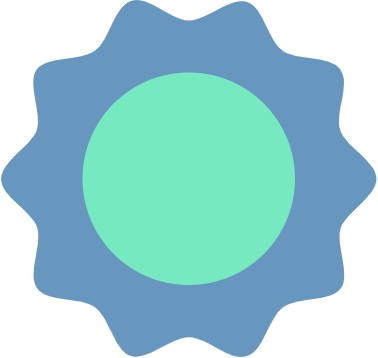
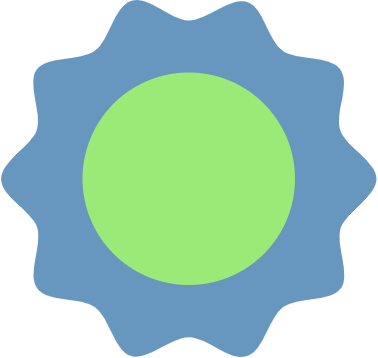
feat(emojis): register HypeSquad (balance/bravery/brilliance), minecraft 3D block, reload, microfone, and updated verde/voltar

Changed region(s): [[0.2037, 0.1844, 0.7857, 0.7989]]

diff --git a/src/config/emojis.js b/src/config/emojis.js
@@ -47,15 +47,21 @@ const custom = {
     bughunter: '<:bughunter:1546598272096010370>',
     nitro: '<:nitro:1546595531298705568>',
     booster: '<:booster:1546594393467916288>',
+    balance: '<:balance:1546605627277836298>',
+    hypesquad_balance: '<:balance:1546605627277836298>',
+    bravery: '<:bravery:1546606959849898194>',
+    hypesquad_bravery: '<:bravery:1546606959849898194>',
+    brilliance: '<:brilliance:1546607104792596500>',
+    hypesquad_brilliance: '<:brilliance:1546607104792596500>',
 
     // Users, Presence & Communication
-    verde: '<:verde:1546599486434840597>',
+    verde: '<:verde:1546604047522594916>',
     amarelo: '<:amarelo:1546599484920959016>',
     vermelho: '<:vermelho:1546599483608141936>',
-    status_online: '<:verde:1546599486434840597>',
+    status_online: '<:verde:1546604047522594916>',
     status_idle: '<:amarelo:1546599484920959016>',
     status_dnd: '<:vermelho:1546599483608141936>',
-    ping_otimo: '<:verde:1546599486434840597>',
+    ping_otimo: '<:verde:1546604047522594916>',
     ping_medio: '<:amarelo:1546599484920959016>',
     ping_ruim: '<:vermelho:1546599483608141936>',
     pessoa: '<:pessoa:1397391720139984897>',
@@ -75,6 +81,8 @@ const custom = {
     fone: '<:fone:1397394241788969130>',
     fonemutado: '<:fonemutado:1397394185706803302>',
     micmutado: '<:micmutado:1397394364396998756>',
+    microfone: '<:microfone:1546604312485175426>',
+    mic: '<:microfone:1546604312485175426>',
     fonecommusica: '<:fonecommusica:1397390080334626909>',
     musica: '<:musica:1397390722667384962>',
     sombaixo: '<:sombaixo:1397390699350982696>',
@@ -104,6 +112,7 @@ const custom = {
     playstation: '<:playstation:1397393555957350410>',
     nitendoswitch: '<:nitendoswitch:1397393528820207641>',
     roblox: '<:roblox:1397393500617703506>',
+    minecraft: '<:minecraft:1546607562395230409>',
     videogame: '<:videogame:1397393911923736687>',
 
     // Moderation & Tools
@@ -184,12 +193,13 @@ const custom = {
     interrogacao: '<:interrogacao:1397392543926194348>',
     exclamacao: '<:exclamacao:1397392506370392105>',
     barra: '<:barra:1397392436665257984>',
-    setaesquerda: '<:setaesquerda:1397393827198931125>',
+    setaesquerda: '<:voltar:1397393827198931125>',
     setamagradireita: '<:setamagradireita:1397392364057792512>',
     setamagraesquerda: '<:setamagraesquerda:1397392255429513406>',
     setacima1: '<:setacima1:1397392160734838888>',
     setacima2: '<:setacima2:1397392139813392476>',
-    voltar: '<:voltar:1397390101163540662>',
+    voltar: '<:voltar:1397393827198931125>',
+    reload: '<:reload:1397390101163540662>',
     link: '<:link:1397392233795420180>',
     visto: '<:visto:1397392629544517773>',
 
@@ -249,6 +259,12 @@ const unicodeFallback = {
     bughunter: '🐛',
     nitro: '🚀',
     booster: '💎',
+    balance: '🏠',
+    hypesquad_balance: '🏠',
+    bravery: '🏠',
+    hypesquad_bravery: '🏠',
+    brilliance: '🏠',
+    hypesquad_brilliance: '🏠',
 
     // Users, Presence & Communication
     verde: '🟢',
@@ -276,6 +292,8 @@ const unicodeFallback = {
     fone: '🎧',
     fonemutado: '🔇',
     micmutado: '🎤',
+    microfone: '🎤',
+    mic: '🎤',
     fonecommusica: '🎶',
     musica: '🎵',
     sombaixo: '🔈',
@@ -303,6 +321,7 @@ const unicodeFallback = {
     playstation: '🎮',
     nitendoswitch: '🎮',
     roblox: '🟥',
+    minecraft: '🟩',
     videogame: '🎮',
 
     martelo: '🔨',
@@ -386,6 +405,7 @@ const unicodeFallback = {
     setacima1: '⬆',
     setacima2: '⬆',
     voltar: '↩',
+    reload: '🔄',
     link: '🔗',
     visto: '👁',
 

diff --git a/src/commands/minecraft.js b/src/commands/minecraft.js
@@ -95,7 +95,7 @@ module.exports = {
                 const skinDownload = `https://crafatar.com/skins/${uuid}`;
 
                 const embed = await createEmbed(interaction, {
-                    title: isPtBr ? `${getEmoji('videogame')} Jogador: ${name}` : `${getEmoji('videogame')} Minecraft Player: ${name}`,
+                    title: isPtBr ? `${getEmoji('minecraft')} Jogador: ${name}` : `${getEmoji('minecraft')} Minecraft Player: ${name}`,
                     fields: [
                         { name: 'Nick', value: '`' + name + '`', inline: true },
                         { name: 'UUID', value: '`' + uuid + '`', inline: true },
@@ -143,8 +143,8 @@ module.exports = {
 
                 if (!isOnline) {
                     const embed = await createEmbed(interaction, {
-                        title: isPtBr ? `${getEmoji('videogame')} Servidor Minecraft: ${ip}` : `${getEmoji('videogame')} Minecraft Server: ${ip}`,
-                        description: isPtBr ? `${getEmoji('errado')} O servidor encontra-se **Offline**.` : `${getEmoji('errado')} The server is currently **Offline**.`,
+                        title: isPtBr ? `${getEmoji('minecraft')} Servidor Minecraft: ${ip}` : `${getEmoji('minecraft')} Minecraft Server: ${ip}`,
+                        description: isPtBr ? `${getEmoji('vermelho')} O servidor encontra-se **Offline**.` : `${getEmoji('vermelho')} The server is currently **Offline**.`,
                         color: 0xED4245,
                     });
                     return interaction.editReply({ embeds: [embed] });
@@ -157,14 +157,14 @@ module.exports = {
                 const icon = data.icon || null;
 
                 const fields = [
-                    { name: isPtBr ? '📶 Status' : '📶 Status', value: `${getEmoji('confere')} Online`, inline: true },
-                    { name: isPtBr ? '👥 Jogadores' : '👥 Players', value: `**${playersOnline}** / **${playersMax}**`, inline: true },
-                    { name: isPtBr ? '📦 Versão' : '📦 Version', value: version, inline: true },
+                    { name: isPtBr ? `${getEmoji('wifi')} Status` : `${getEmoji('wifi')} Status`, value: `${getEmoji('verde')} Online`, inline: true },
+                    { name: isPtBr ? `${getEmoji('pessoas1')} Jogadores` : `${getEmoji('pessoas1')} Players`, value: `**${playersOnline}** / **${playersMax}**`, inline: true },
+                    { name: isPtBr ? `${getEmoji('pasta')} Versão` : `${getEmoji('pasta')} Version`, value: version, inline: true },
                     { name: 'MOTD', value: `\`\`\`${motdClean.length > 500 ? motdClean.substring(0, 497) + '...' : motdClean}\`\`\``, inline: false },
                 ];
 
                 const embed = await createEmbed(interaction, {
-                    title: isPtBr ? `${getEmoji('videogame')} Servidor Minecraft: ${ip}` : `${getEmoji('videogame')} Minecraft Server: ${ip}`,
+                    title: isPtBr ? `${getEmoji('minecraft')} Servidor Minecraft: ${ip}` : `${getEmoji('minecraft')} Minecraft Server: ${ip}`,
                     fields,
                     thumbnail: icon,
                     color: 0x57F287,

diff --git a/src/utils/userProfileBuilder.js b/src/utils/userProfileBuilder.js
@@ -11,9 +11,9 @@ const { getEmoji } = require('../config/emojis.js');
 const colors = require('../config/colors.js');
 
 const BADGE_MAP = {
-    HypeSquadOnlineHouse1: { pt: '🏠 HypeSquad Bravery', en: '🏠 HypeSquad Bravery' },
-    HypeSquadOnlineHouse2: { pt: '🏠 HypeSquad Brilliance', en: '🏠 HypeSquad Brilliance' },
-    HypeSquadOnlineHouse3: { pt: '🏠 HypeSquad Balance', en: '🏠 HypeSquad Balance' },
+    HypeSquadOnlineHouse1: { pt: `${getEmoji('bravery')} HypeSquad Bravery`, en: `${getEmoji('bravery')} HypeSquad Bravery` },
+    HypeSquadOnlineHouse2: { pt: `${getEmoji('brilliance')} HypeSquad Brilliance`, en: `${getEmoji('brilliance')} HypeSquad Brilliance` },
+    HypeSquadOnlineHouse3: { pt: `${getEmoji('balance')} HypeSquad Balance`, en: `${getEmoji('balance')} HypeSquad Balance` },
     ActiveDeveloper: { pt: `${getEmoji('selodev1')} Desenvolvedor Ativo`, en: `${getEmoji('selodev1')} Active Developer` },
     PremiumEarlySupporter: { pt: `${getEmoji('coroa')} Apoiador Inicial`, en: `${getEmoji('coroa')} Early Supporter` },
     VerifiedDeveloper: { pt: `${getEmoji('selodev2')} Dev de Bot Verificado`, en: `${getEmoji('selodev2')} Early Verified Bot Dev` },

diff --git a/src/components/builder/containerBuilder.js b/src/components/builder/containerBuilder.js
@@ -355,7 +355,7 @@ function buildStudioPayload(session, guild) {
               .setCustomId('btn_builder_voltar')
               .setLabel('Retornar ao Estúdio')
               .setStyle(ButtonStyle.Secondary)
-              .setEmoji('⬅')
+              .setEmoji(getEmoji('voltar'))
               .toJSON(),
             new ButtonBuilder()
               .setCustomId('btn_builder_confirmar')
